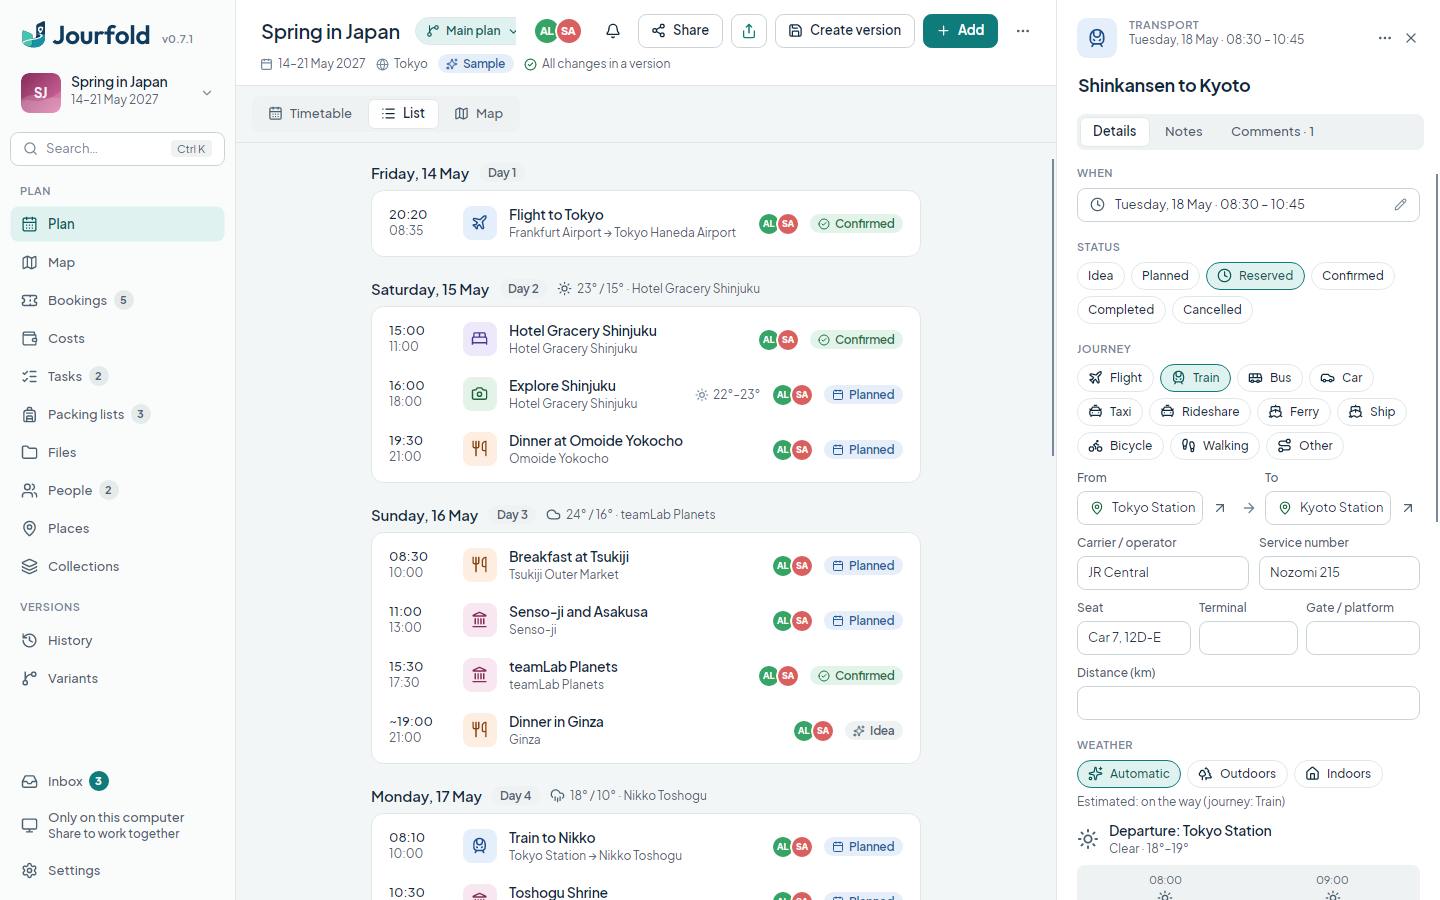
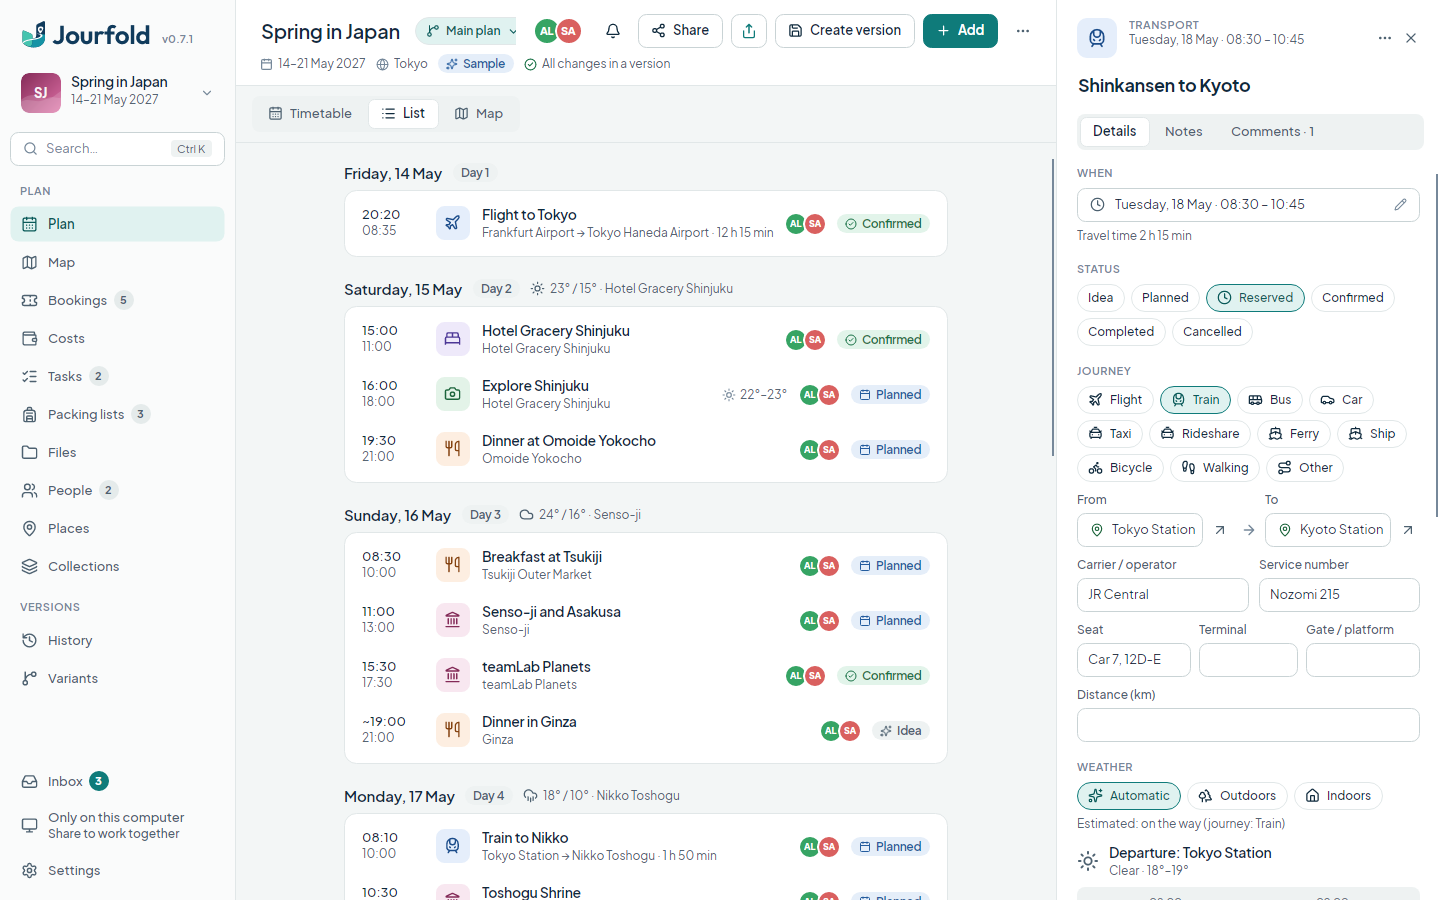
Travel time on journeys; the detail sheet moves with any drag
Journeys show how long they take, from departure to arrival across time zones: on the phone's cards and details, and
in the desktop's list and inspector. The phone's detail sheet no longer shows at the height of its content for a
frame before its first detent, and below the top detent the content does not scroll, so dragging it anywhere moves
the sheet; at the top it scrolls, and dragging down at its top lowers the sheet again.

Claude-Session: https://claude.ai/code/session_01EKe3mwT2vL34shtfNwVCKM

diff --git a/src/Jourfold.Mobile/Controls/Sheet.cs b/src/Jourfold.Mobile/Controls/Sheet.cs
@@ -18,6 +18,8 @@ public sealed class Sheet : Grid
 {
     private readonly Border panel;
     private readonly Border scrim;
+    private readonly ScrollViewer scroll;
+    private bool placed;
     private readonly double[] detents;
     private readonly bool side;
     private int detent;
@@ -37,7 +39,7 @@ public sealed class Sheet : Grid
         this.detents = detents; this.side = side; detent = Math.Clamp(start, 0, detents.Length - 1);
         scrim = new Border { Background = new SolidColorBrush(Colors.Black, side ? 0.18 : 0.32) };
         scrim.PointerPressed += (_, e) => { Close(); e.Handled = true; };
-        var scroll = new ScrollViewer { Content = content, HorizontalScrollBarVisibility = Avalonia.Controls.Primitives.ScrollBarVisibility.Disabled };
+        scroll = new ScrollViewer { Content = content, HorizontalScrollBarVisibility = Avalonia.Controls.Primitives.ScrollBarVisibility.Disabled };
         // The whole header takes the drag, not only the handle, so it needs a background to be hit everywhere.
         var top = new Border { Child = side ? header : Ui.V(0, Handle(), header), Background = Brushes.Transparent };
         var layout = new Grid { RowDefinitions = new RowDefinitions("Auto,*") };
@@ -50,10 +52,11 @@ public sealed class Sheet : Grid
             VerticalAlignment = side ? VerticalAlignment.Stretch : VerticalAlignment.Bottom,
             HorizontalAlignment = side ? HorizontalAlignment.Right : HorizontalAlignment.Stretch,
             Width = side ? 400 : double.NaN,
-            BoxShadow = BoxShadows.Parse("0 -2 16 0 #26000000")
+            BoxShadow = BoxShadows.Parse("0 -2 16 0 #26000000"),
+            // Hidden until it knows the screen's height; it would otherwise show at the height of its content first.
+            IsVisible = side
         }.Res(Border.BackgroundProperty, "Bg.Surface");
         AutomationProperties.SetName(panel, label);
-        if (!side) panel.Transitions = [new DoubleTransition { Property = HeightProperty, Duration = TimeSpan.FromMilliseconds(180), Easing = new Avalonia.Animation.Easings.CubicEaseOut() }];
         Children.Add(scrim); Children.Add(panel);
         // Dragging works on the handle and the header, so the content can still scroll.
         top.PointerPressed += OnPressed; top.PointerMoved += OnMoved; top.PointerReleased += OnReleased;
@@ -62,8 +65,8 @@ public sealed class Sheet : Grid
     }
 
     /// <summary>
-    /// Below the top detent, dragging the content up raises the sheet; at the top of the content, dragging down lowers
-    /// it. Otherwise the content scrolls.
+    /// Below the top detent the content does not scroll, so dragging it moves the whole sheet, as the handle does. At the
+    /// top detent it scrolls; dragging down at the top of the content lowers the sheet again.
     /// </summary>
     private void FollowContent(ScrollViewer scroll)
     {
@@ -116,6 +119,12 @@ public sealed class Sheet : Grid
         var available = Bounds.Height - keyboard;
         // With the keyboard up the sheet takes the room above it.
         panel.Height = keyboard > 0 ? available * 0.96 : dragHeight ?? available * detents[detent];
+        // Touch scrolling would take every drag in the content; below the top detent the drag belongs to the sheet.
+        var scrolls = keyboard > 0 || detent == detents.Length - 1;
+        scroll.VerticalScrollBarVisibility = scrolls ? Avalonia.Controls.Primitives.ScrollBarVisibility.Auto : Avalonia.Controls.Primitives.ScrollBarVisibility.Disabled;
+        if (!scrolls) scroll.Offset = default;
+        // The first placement is immediate; later changes of detent glide.
+        if (!placed) { placed = true; panel.IsVisible = true; panel.Transitions = [Glide()]; }
     }
 
     private void OnPressed(object? sender, PointerPressedEventArgs e)
@@ -138,11 +147,13 @@ public sealed class Sheet : Grid
         Settle(dragHeight ?? panel.Bounds.Height);
     }
 
+    private static DoubleTransition Glide() => new() { Property = HeightProperty, Duration = TimeSpan.FromMilliseconds(180), Easing = new Avalonia.Animation.Easings.CubicEaseOut() };
+
     /// <summary>Lets go of a drag: the nearest detent, or closed when well below the lowest.</summary>
     private void Settle(double height)
     {
         dragFrom = null; dragHeight = null;
-        panel.Transitions = [new DoubleTransition { Property = HeightProperty, Duration = TimeSpan.FromMilliseconds(180), Easing = new Avalonia.Animation.Easings.CubicEaseOut() }];
+        panel.Transitions = [Glide()];
         var share = height / Math.Max(1, Bounds.Height);
         // Well below the lowest detent closes; otherwise the nearest detent wins.
         if (share < detents[0] * 0.6) { Close(); return; }

diff --git a/src/Jourfold.Desktop/Views/InspectorView.cs b/src/Jourfold.Desktop/Views/InspectorView.cs
@@ -245,8 +245,10 @@ public static class InspectorView
         var precision = span.Precision is TimePrecision.Exact or TimePrecision.Unscheduled ? null : s[span.Precision switch { TimePrecision.Approximate => "approximate", TimePrecision.Window => "window", TimePrecision.DayPart => "day_part", _ => "all_day" }];
         var zoneNote = span.StartZone is { } z && z != ScheduleQueries.TripZone(trip).Id && span.Start is { } st ? string.Format(s["LocalTimeIn"], Formats.Time(st.InZone(DateTimeZoneProviders.Tzdb[z]).TimeOfDay), Formats.ZoneName(z)) : null;
         var endNote = span.EndZone is { } ez && ez != span.StartZone && span.End is { } en ? string.Format(s["ArrivesLocal"], Formats.Time(en.InZone(DateTimeZoneProviders.Tzdb[ez]).TimeOfDay), Formats.ZoneName(ez)) : null;
+        // A journey says how long it takes, which its times in two zones do not show at a glance.
+        var travel = e.Data["components"]?["transport"] is JsonObject && Formats.TravelTime(span.Start, span.End, s) is { } length ? string.Format(s["TravelTime"], length) : null;
         var when = Editors.ValueButton(whenText, span.IsPlaced ? "clock" : "calendar-plus", s["Schedule"], () => m.ScheduleSelectedAsync(), "time");
-        var whenBlock = Ui.V(6, when, precision is null && zoneNote is null && endNote is null ? null : Ui.H(10, precision is null ? null : Ui.Pill(precision, "timer", "Bg.Subtle", "Text.Muted"), Ui.Text(string.Join(" · ", new[] { zoneNote, endNote }.Where(x => x is not null)), "caption")));
+        var whenBlock = Ui.V(6, when, precision is null && zoneNote is null && endNote is null && travel is null ? null : Ui.H(10, precision is null ? null : Ui.Pill(precision, "timer", "Bg.Subtle", "Text.Muted"), Ui.Text(string.Join(" · ", new[] { zoneNote, endNote, travel }.Where(x => x is not null)), "caption")));
         if (span.Derived) whenBlock.Children.Add(Ui.Text(s["DerivedFromItems"], "caption"));
         if (!span.IsPlaced) whenBlock.Children.Add(Field(s["DurationMinutes"], Editors.Number(w, e.Id, "duration", s["DurationMinutes"], ScheduleQueries.PlannedDuration(e)?.TotalMinutes, s["MinutesShort"], v => JsonValue.Create(PeriodPattern.NormalizingIso.Format(Period.FromMinutes((long)v)))!, 15)));
         Add(body, s["When"], whenBlock);

diff --git a/src/Jourfold.Mobile/Views/Lines.cs b/src/Jourfold.Mobile/Views/Lines.cs
@@ -80,7 +80,7 @@ public static class Lines
             _ => ""
         };
         var arrival = time?.Arrival is { } arrives ? string.Format(CultureInfo.CurrentCulture, s.Strings["ArrivesAt"], arrives) : "";
-        var details = string.Join(" · ", new[] { role, place, arrival, e.IsGroup ? string.Format(CultureInfo.CurrentCulture, s.Strings["StepsCount"], e.Steps.Count) : "", reference ?? "" }.Where(t => t.Length > 0));
+        var details = string.Join(" · ", new[] { role, place, arrival, TravelTime(e, s.Strings) ?? "", e.IsGroup ? string.Format(CultureInfo.CurrentCulture, s.Strings["StepsCount"], e.Steps.Count) : "", reference ?? "" }.Where(t => t.Length > 0));
         var header = Ui.Columns("Auto,*,Auto",
             Ui.Icon(icon, 18, "Kind." + key + ".Fg").Also(i => i.VerticalAlignment = VerticalAlignment.Top).Margin(0, 2, 10, 0),
             Ui.V(2, title, details.Length > 0 ? Ui.Text(details, "caption") : null, time?.Other is { } other ? Ui.Text(other, "caption", "subtle") : null),
@@ -136,6 +136,10 @@ public static class Lines
     }
 
     public static string DayTitle(LocalDate date, MobileSession s) => date.ToString(s.Strings["DayTitleFormat"], CultureInfo.GetCultureInfo(s.Strings.Language));
+    /// <summary>How long a journey takes from departure to arrival, across time zones; null for anything else.</summary>
+    public static string? TravelTime(AgendaEntry e, Localization s) =>
+        e.Kind == ScheduleKind.Transport && e.Role == AgendaRole.Item ? Formats.TravelTime(e.Start, e.End, s) : null;
+
     /// <summary>A day in short, such as "Sun 16 May" or "So., 16. Mai".</summary>
     public static string DayShort(LocalDate date, Localization s) => date.ToString(s["DayShortFormat"], CultureInfo.GetCultureInfo(s.Language));
 }

diff --git a/src/Jourfold.Mobile/Views/DetailView.cs b/src/Jourfold.Mobile/Views/DetailView.cs
@@ -36,7 +36,9 @@ public static class DetailView
         if (entry is not null && TimeText.Local(entry, s.PhoneZone, str, s.Trip) is { Start.Length: > 0 } time)
         {
             var day = entry.Day is { } d ? Lines.DayShort(d, str) + " · " : "";
-            page.Children.Add(Row("clock", day + time.Primary + (time.Arrival is { } arrival ? " → " + arrival : ""), time.Other));
+            var travel = Lines.TravelTime(entry, str) is { } length ? string.Format(CultureInfo.CurrentCulture, str["TravelTime"], length) : null;
+            var other = string.Join(" · ", new[] { travel, time.Other }.OfType<string>());
+            page.Children.Add(Row("clock", day + time.Primary + (time.Arrival is { } arrival ? " → " + arrival : ""), other.Length > 0 ? other : null));
         }
         if (Lines.Where(trip, item) is { Length: > 0 } where)
             page.Children.Add(Row("map-pin", where, (ScheduleQueries.PrimaryPlace(trip, item) ?? ScheduleQueries.Route(trip, item).To)?.Data["address"]?["formatted"]?.ToString()));

diff --git a/src/Jourfold.Desktop/Views/PlanViews.cs b/src/Jourfold.Desktop/Views/PlanViews.cs
@@ -93,6 +93,8 @@ public static class AgendaView
         }
         var route = ScheduleQueries.Route(trip, item); var place = ScheduleQueries.PrimaryPlace(trip, item);
         var where = route.From is not null && route.To is not null ? route.From.Title + " → " + route.To.Title : place?.Title;
+        // A journey also says how long it takes.
+        if (item.Data["components"]?["transport"] is System.Text.Json.Nodes.JsonObject && Formats.TravelTime(span.Start, span.End, s) is { } travel) where = where is null ? travel : where + " · " + travel;
         var people = ScheduleQueries.Participants(trip, item).Select(p => p.Title).ToArray();
         var status = item.Data["status"]?.ToString() ?? "idea"; var (statusIcon, bg, fg) = Visuals.Status(status);
         var grid = Ui.Columns(m.SecondZone is null ? "74,Auto,*,Auto,Auto,Auto" : "104,Auto,*,Auto,Auto,Auto",

diff --git a/src/Jourfold.UI/Visuals.cs b/src/Jourfold.UI/Visuals.cs
@@ -114,6 +114,10 @@ public static class Formats
         return Date(a) + " – " + Date(b);
     }
 
+    /// <summary>How long a journey takes from departure to arrival, across time zones; null without both or when it would not be positive.</summary>
+    public static string? TravelTime(NodaTime.Instant? departs, NodaTime.Instant? arrives, Localization s) =>
+        departs is { } from && arrives is { } to && to > from ? Duration(to - from, s) : null;
+
     public static string Duration(NodaTime.Duration duration, Localization s)
     {
         var minutes = (long)Math.Round(duration.TotalMinutes);
